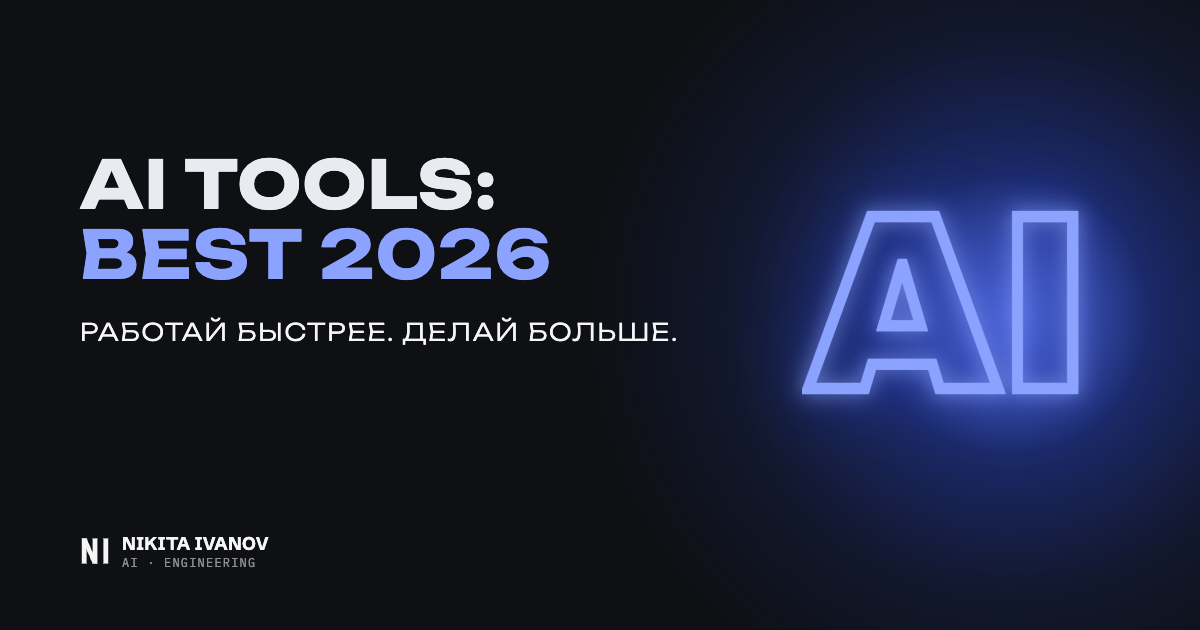
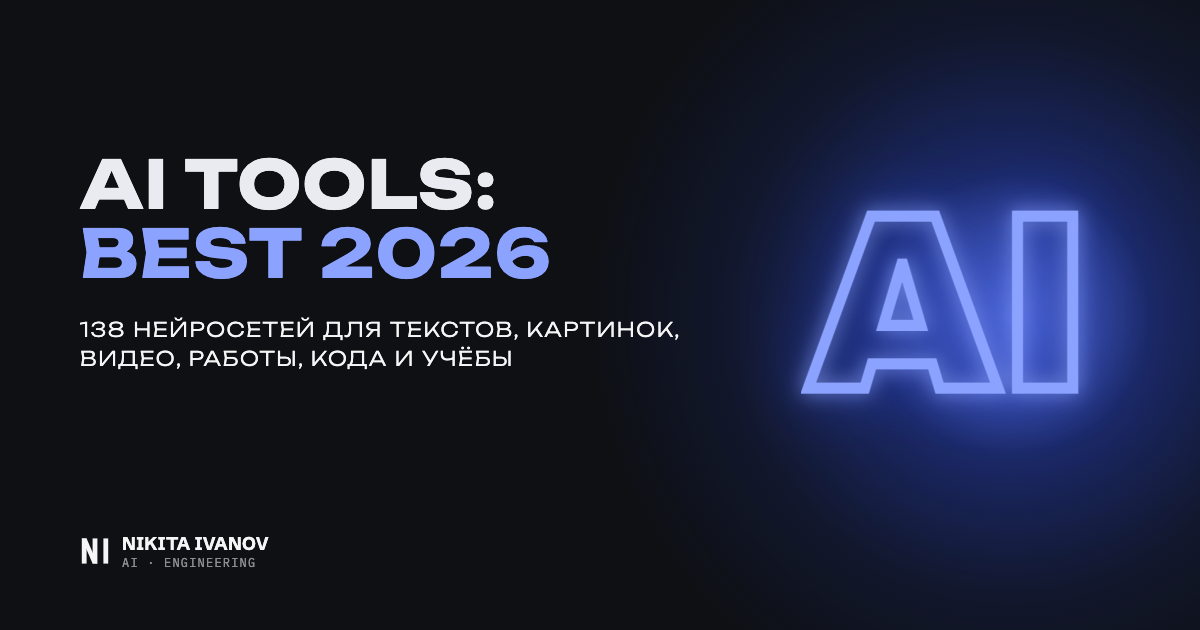
chore: перерисовать превью под новый подзаголовок, игнорировать кэш wrangler
- assets/og-ru.png: «138 нейросетей для текстов, картинок, видео, работы, кода и учёбы»
- scripts/og-template.html: только RU, подзаголовок в две строки
- .gitignore: .wrangler/ (кэш с id аккаунта Cloudflare)

diff --git a/scripts/og-template.html b/scripts/og-template.html
@@ -27,7 +27,7 @@
 <script>
   const p = new URLSearchParams(location.search);
   // Подзаголовок — как в SITE.tagline (tools.js); число сервисов подставить вручную
-  const T = { tag: '138 нейросетей для текстов, картинок, видео, работы, кода и учёбы' };
+  const T = { tag: '138 нейросетей для текстов, картинок,<br>видео, работы, кода и учёбы' };
   const ni = s => `<svg width="${s}" height="${s}" viewBox="0 0 100 100"><g fill="currentColor"><rect x="6" y="8" width="16" height="84"/><polygon points="6,8 22,8 58,92 42,92"/><rect x="42" y="8" width="16" height="84"/><rect x="78" y="8" width="16" height="84"/></g></svg>`;
   const by = `<div class="by">${ni(30)}<div><div class="n">NIKITA IVANOV</div><div class="r">AI · ENGINEERING</div></div></div>`;
 
@@ -35,7 +35,7 @@
   const html = `<div class="glow" style="width:900px;height:900px;left:560px;top:-135px"></div>
         <div style="position:absolute;left:80px;top:150px;width:620px">
           <h1 style="font-size:66px">AI TOOLS:<br><span class="acc">BEST 2026</span></h1>
-          <div class="tag" style="font-size:24px;margin-top:28px">${T.tag}</div>
+          <div class="tag" style="font-size:20px;line-height:1.45;margin-top:26px;max-width:640px">${T.tag}</div>
         </div>
         <div class="mark" style="position:absolute;right:110px;top:180px;font-size:250px">AI</div>
         <div style="position:absolute;left:80px;bottom:60px">${by}</div>`;
